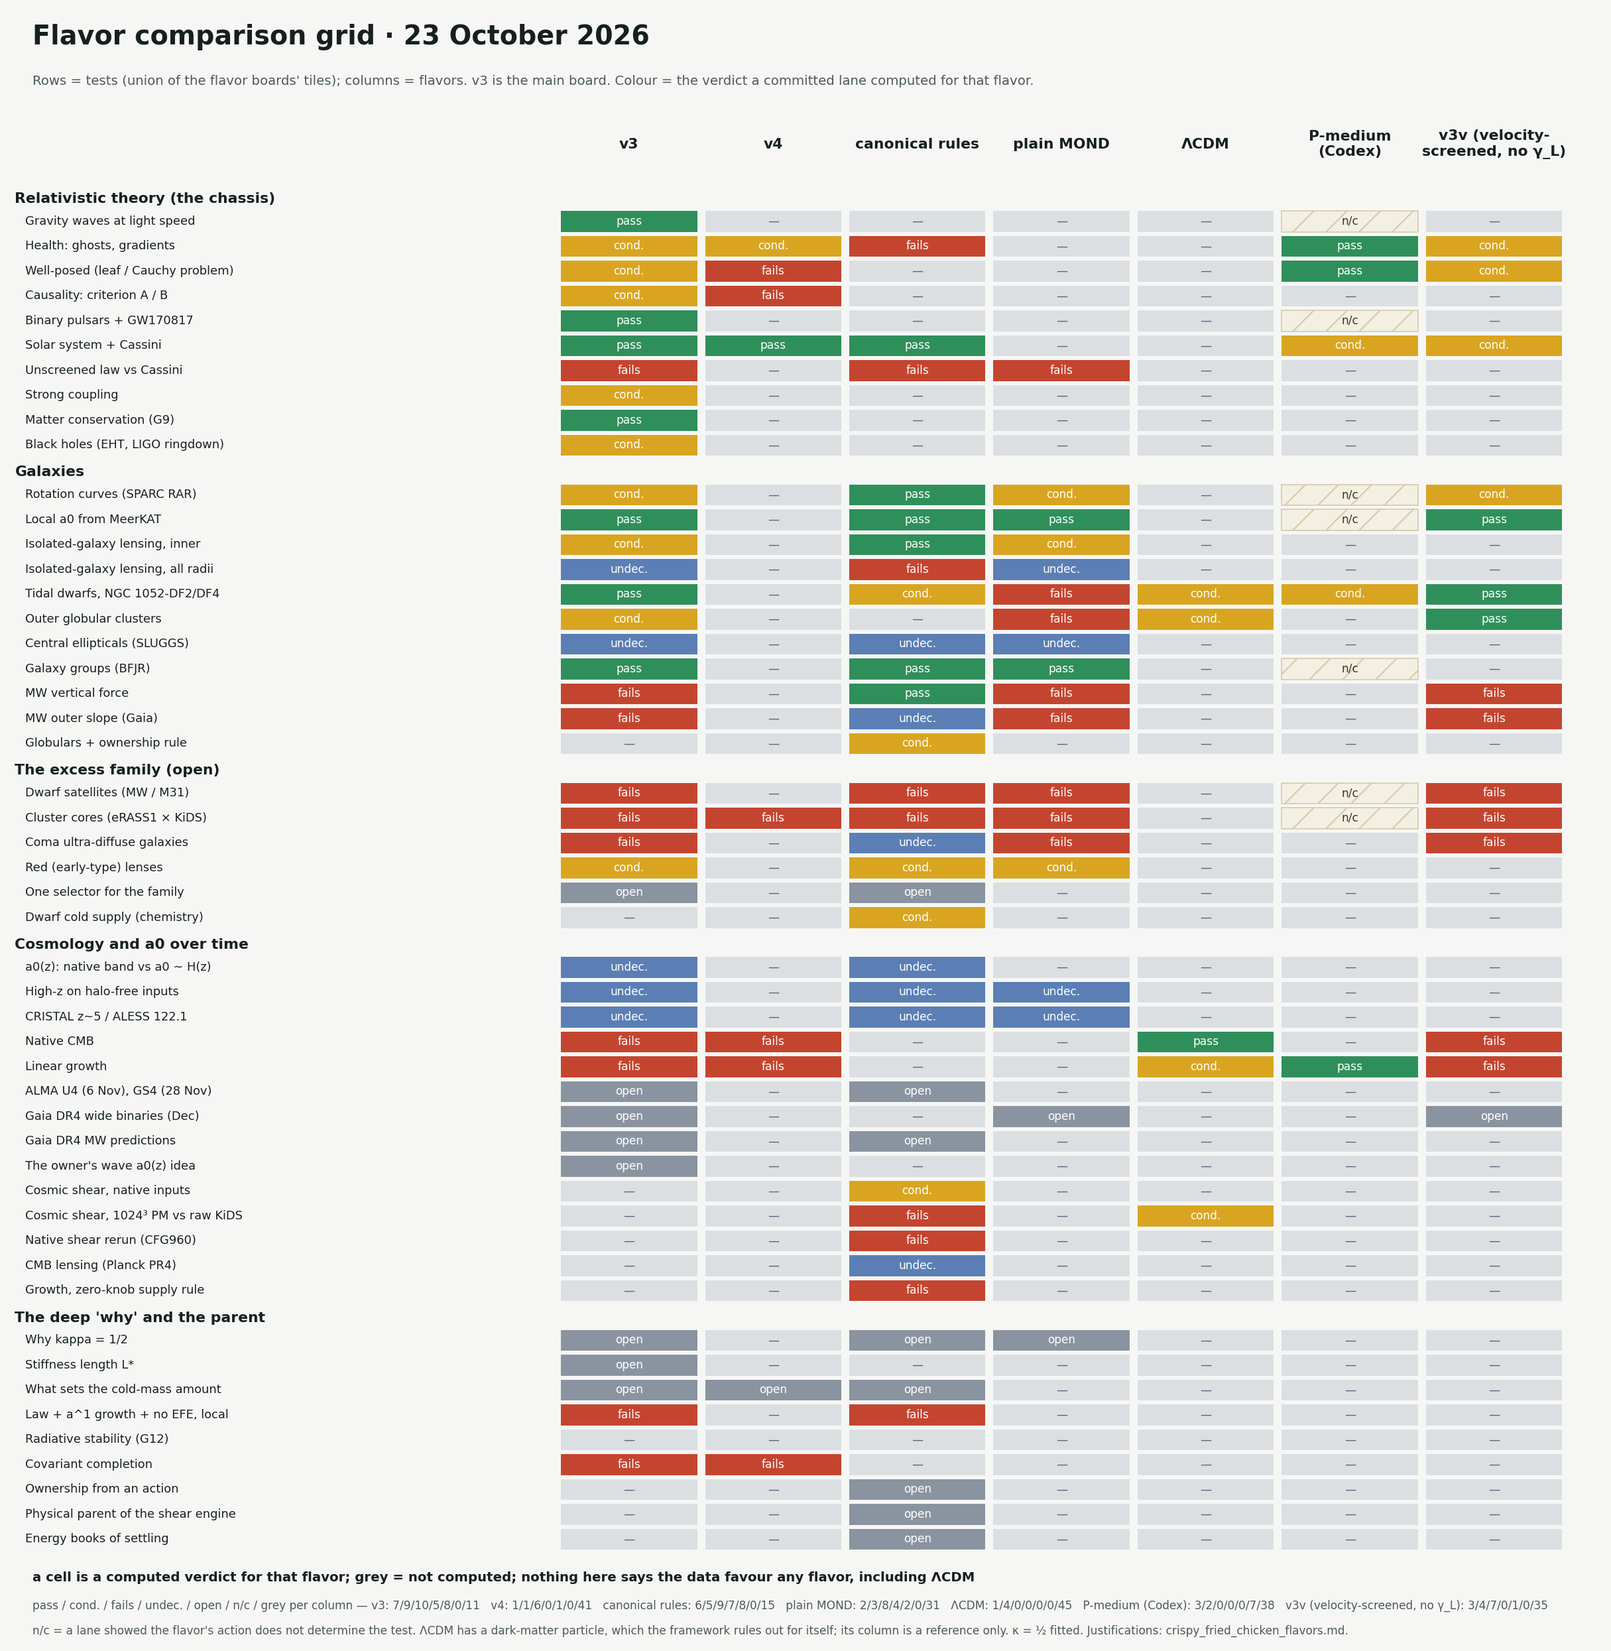
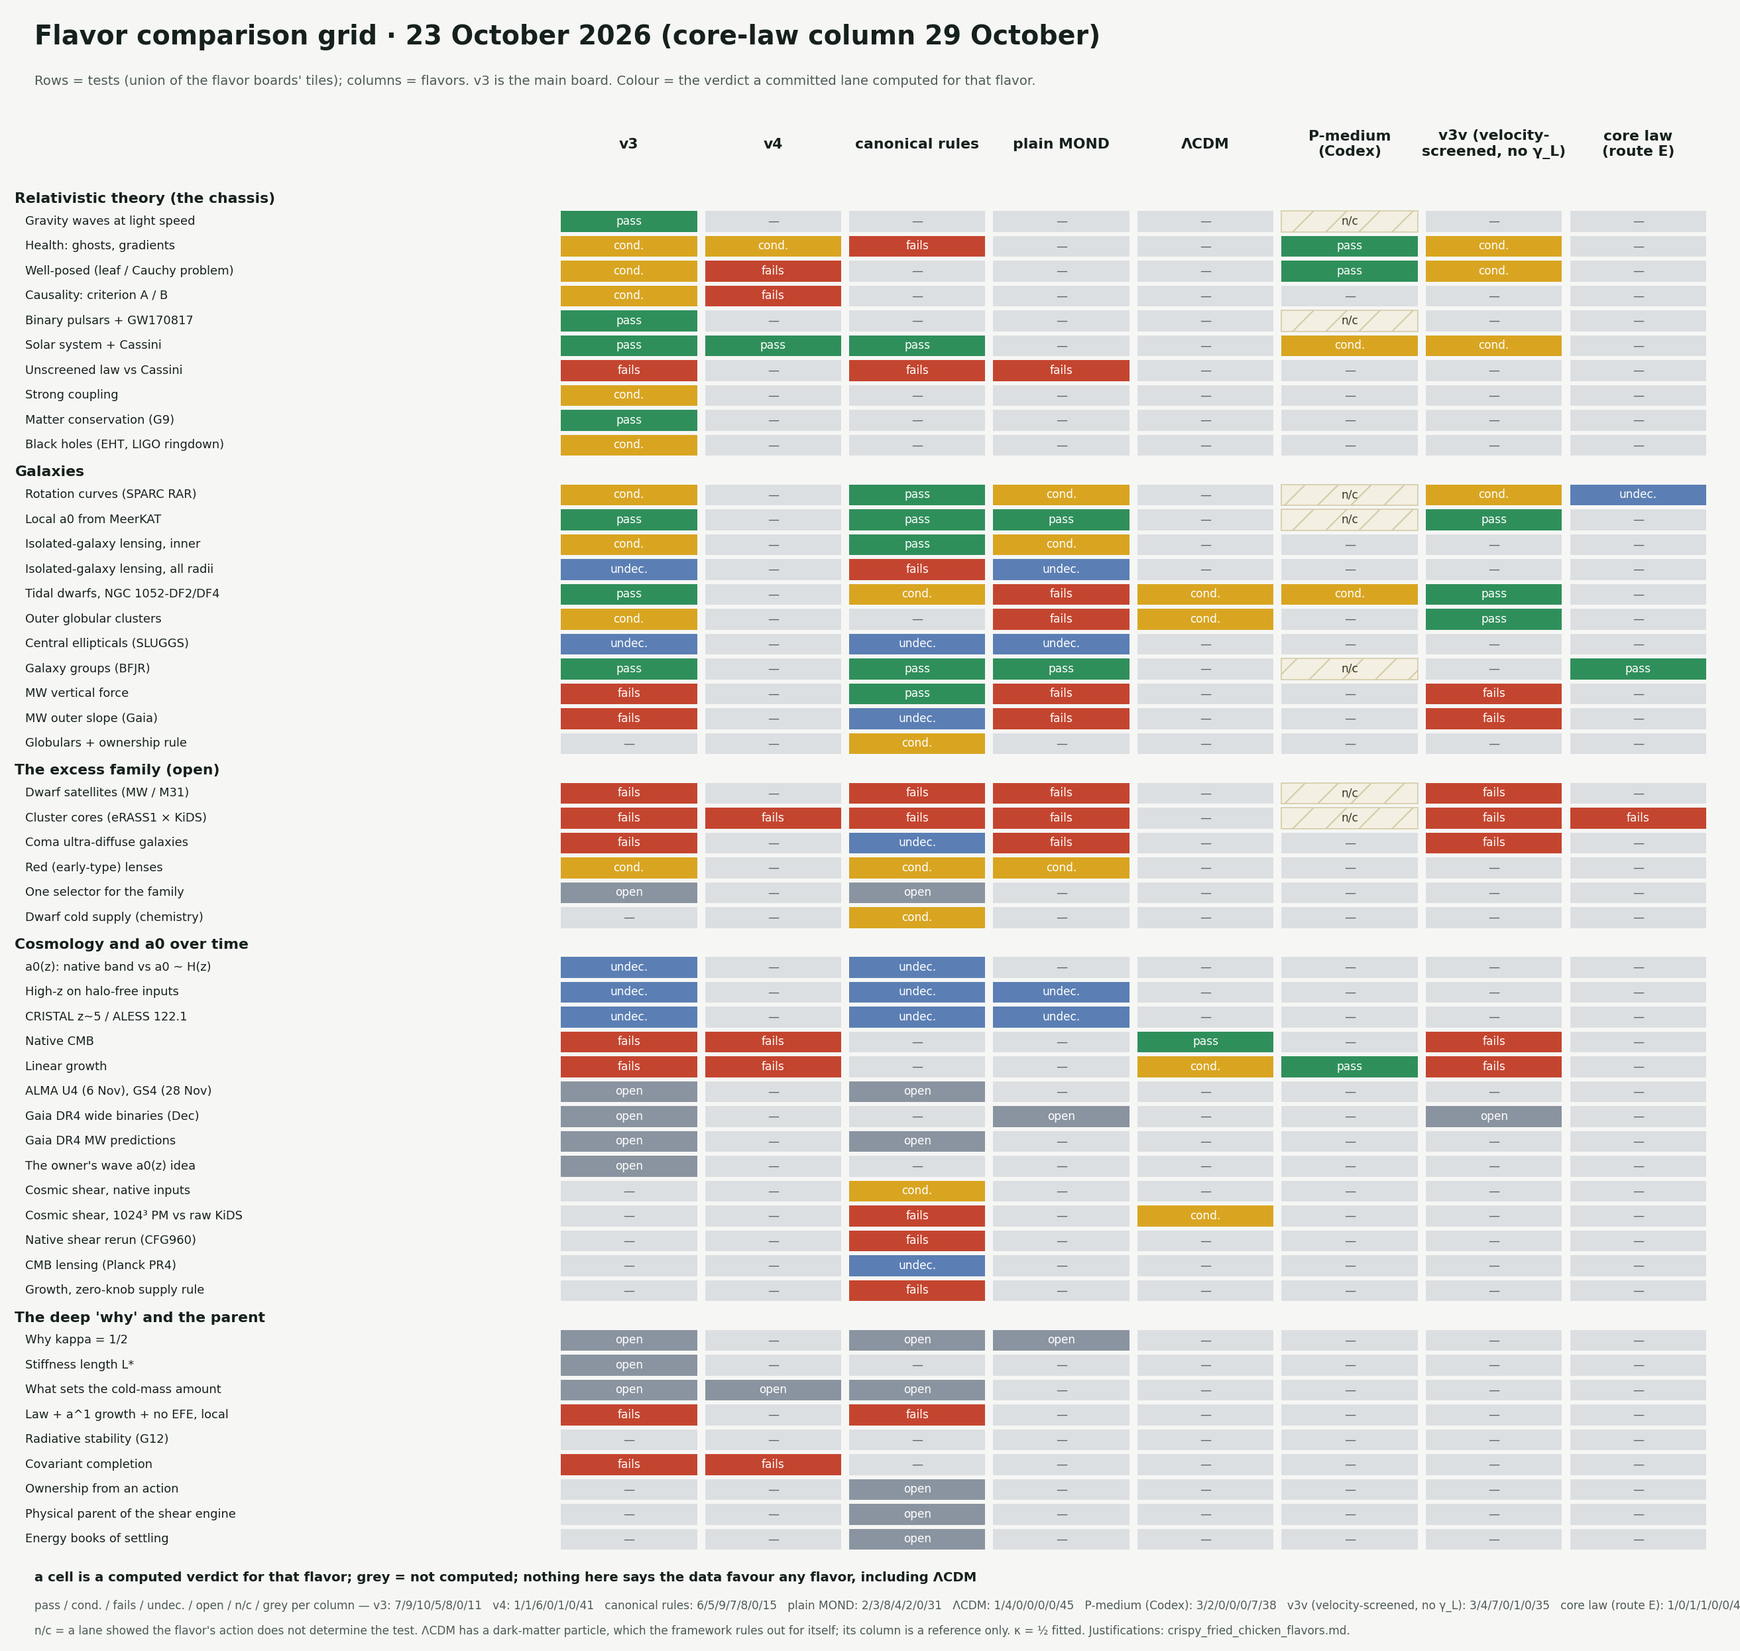
Boards + docs to 2026-10-29: eighth flavor 'core law (route E)' on the flavor boards (X70 groups PASS verified by rerun chain, SPARC not decidable (footings disagree), cluster keys FAIL with measured f* per X71; every cell lane-cited; selftest 31/31 caught, --mutate fails as required); grid widened 

diff --git a/explainers/make_flavor_boards.py b/explainers/make_flavor_boards.py
@@ -50,13 +50,17 @@ HERE = os.path.dirname(os.path.abspath(__file__))
 IMG = os.path.join(HERE, "img")
 OUT_BOARD = {"v4": "status_board_v4.png", "canonical": "status_board_canonical_rules.png",
              "plain_mond": "status_board_plain_mond.png", "lcdm": "status_board_lcdm.png",
-             "pmedium": "status_board_pmedium.png", "v3v": "status_board_v3v.png"}
+             "pmedium": "status_board_pmedium.png", "v3v": "status_board_v3v.png",
+             "coreE": "status_board_core_law.png"}
 OUT_GRID = "flavor_comparison_grid.png"
+BOARD_DATE = {"coreE": "29 October 2026"}   # flavors added later carry their own date
 
-FLAVORS = ["v3", "v4", "canonical", "plain_mond", "lcdm", "pmedium", "v3v"]
+FLAVORS = ["v3", "v4", "canonical", "plain_mond", "lcdm", "pmedium", "v3v", "coreE"]
 TITLE = {"v3": "v3", "v4": "v4", "canonical": "canonical rules", "plain_mond": "plain MOND", "lcdm": "ΛCDM",
-         "pmedium": "P-medium (Codex)", "v3v": "v3v (velocity-screened, no γ_L)"}
-GRID_TITLE = dict(TITLE, pmedium="P-medium\n(Codex)", v3v="v3v (velocity-\nscreened, no γ_L)")
+         "pmedium": "P-medium (Codex)", "v3v": "v3v (velocity-screened, no γ_L)",
+         "coreE": "core law (route E)"}
+GRID_TITLE = dict(TITLE, pmedium="P-medium\n(Codex)", v3v="v3v (velocity-\nscreened, no γ_L)",
+                  coreE="core law\n(route E)")
 RECIPES = {
     "v3": msb.RECIPE.split(": ", 1)[1],          # the main board's own recipe line, whatever it currently says
     "v4": "AeST (Skordis–Złośnik) with C1's capped free function (static limit = the law μ = x/(1+x)) plus the same "
@@ -72,6 +76,9 @@ RECIPES = {
                "stiffening scalar χ (Codex's reduced preferred-frame action); ℓ₀ = 0.44 kpc fitted to growth.",
     "v3v": "Literal Blanchet–Skordis Khronon (J_x, BS K(Q) dust) + covector P, with NO γ_L stiffness. Moving subsystems "
            "hold phantom only within 2GM_b/V² (velocity screening). κ fitted; no L★.",
+    "coreE": "Route E (owner's flagship, 10-25): Newtonian gravity on baryons + cold dark energy halos with the smooth core "
+             "ρ₀/(1+x²)^(3/2) at ρ₀r₀ = max(a₀/2πG, η Σ_coll), η re-derived for the shape (10.82 at c_f = 4, EXTERNAL); "
+             "fair share inside r_ta; measured stellar fractions; no law force. κ fitted.",
 }
 PSEUDO = {"newton"}   # the Newtonian / GR limit some lanes compute as a row; never a column of its own
 
@@ -195,6 +202,8 @@ L("H4", {"v3", "v3v"}, R + "H4_v3_saddle_stability/README.md:L11, L71, L81 (the 
 L("H5", {"v3", "v3v"}, R + "H5_v3s_lobe_growth/README.md:L3-L24 (static branch only in the khronon's rest frame)")
 L("Y1", {"pmedium"}, "rebuild_2026_10_22/Y1_pmedium_flavor/README.md:L1-L38 (Codex's XP/SE-20261023 reduced action)")
 L("Q6", {"v3", "lcdm"}, R + "Q6_v3_class/README.md:L21, L131 (ΛCDM refit; DUST = ΛCDM)")
+L("X70", {"coreE"}, R + "X70_smooth_core_shape/README.md:L1-L11 (smooth core, η re-derived, f★ = 0.20)")
+L("X71", {"coreE"}, R + "X71_smooth_core_measured_fstar/README.md:L1-L13 (X70 with measured stellar fractions)")
 
 # ---------------------------------------------------------------------------------------------------------------------
 # What each lane itself concluded: (lane, flavor computed, row) -> (colour, file:line where the lane states it).
@@ -205,6 +214,13 @@ def V(lane, comp, row, st, where):
     VERDICTS[(lane, comp, row)] = (st, where)
 
 
+# core law (route E): X70 (f★ 0.20) and X71 (measured f★); SPARC and groups do not use f★ (X71 README L13)
+V("X70", "coreE", "Rotation curves (SPARC RAR)", "UNDEC", R + "X70_smooth_core_shape/README.md:L9-L12 (canonical "
+  "passes; alt fails the line on Υ 0.47: footings disagree)")
+V("X70", "coreE", "Galaxy groups (BFJR)", "PASS", R + "X70_smooth_core_shape/README.md:L18 (Z +1.94 / +1.88 "
+  "CONSISTENT, both footings)")
+V("X71", "coreE", "Cluster cores (eRASS1 × KiDS)", "FAIL", R + "X71_smooth_core_measured_fstar/README.md:L7-L13 "
+  "(BREAKS: G-OUT-M3 UNDER, Z 2.25 / 2.33)")
 # v4
 V("H3", "v4", "Health: ghosts, gradients", "COND", TV3 + ":L26-L30")
 V("I1", "v4", "Well-posed (leaf / Cauchy problem)", "FAIL", R + "I1_gammaL_causality/README.md:L3-L14")
@@ -371,6 +387,9 @@ VERIFIED_GREEN_F = {
         "coordinator rerun identical; with U1 (54ee83e54e; coordinator rerun: main 15/16, A2 6/6)"),
     ("v3v", "Outer globular clusters"): ("O1", "ecbb964b0e", "coordinator rerun identical"),
     ("v3v", "Local a0 from MeerKAT"): ("P4", "6c0249a8bc", "coordinator rerun 2026-10-23: P4 identical except peak RSS"),
+    ("coreE", "Galaxy groups (BFJR)"): ("X70", "a9b3a43449",
+        "X71's f★ = 0.20 run reproduces X70 (cluster preds max |d| 0, 645c914b14) and X72's K1 reproduces X71's groups Z, "
+        "SPARC rms and cluster preds to 1e-9 (1a60d81204)"),
     ("lcdm", "Native CMB"): ("C2", "5e93769089",
         "the ΛCDM refit is reproduced independently by C7 K1 (README L161: 1003.48 vs C2's 1003.20) and Q6 "
         "(README L21: 1003.47)"),
@@ -623,6 +642,14 @@ CELLS = [
       "decides", ["O1"]),
     C("pmedium", 3, "Linear growth", "PASS",
       "σ₈ / dust limit 0.9991 (from a = 1e-3), 0.967 (1e-4); a WDM-like cutoff at k ~ 1–6 h/Mpc is flagged", ["Y1"]),
+    # ---------------- core law (route E, smooth core): X70 / X71 ----------------
+    C("coreE", 1, "Rotation curves (SPARC RAR)", "UNDEC",
+      "canonical rms 0.071, Υ 0.56: line passes; alt rms 0.072 but Υ 0.47 < 0.50: line fails (footings disagree)",
+      ["X70"]),
+    C("coreE", 1, "Galaxy groups (BFJR)", "PASS", "63 groups, Z +1.94 / +1.88 CONSISTENT (X43 Burkert: +2.05)", ["X70"]),
+    C("coreE", 2, "Cluster cores (326 eRASS1)", "FAIL",
+      "14 of 15 keys pass; heavy-cluster outskirts G-OUT-M3 UNDER, Z 2.25 / 2.33 with measured f★ (all 15 pass at the "
+      "assumed f★ 0.20); native c_f regrade X72 pending A4", ["X71", "X70"]),
 ]
 
 
@@ -746,7 +773,7 @@ def draw_board(f, cells, out):
     top_in, bot_in = 1.70, 1.25
     ax = fig.add_axes([0.012, bot_in / H, 0.976, 1 - (top_in + bot_in) / H])
     ax.set_xlim(0, ncol); ax.set_ylim(-0.25, nmax + 0.65); ax.axis("off")
-    fig.text(0.015, 1 - 0.50 / H, f"Flavor board · {TITLE[f]} · 23 October 2026", fontsize=24, fontweight="bold",
+    fig.text(0.015, 1 - 0.50 / H, f"Flavor board · {TITLE[f]} · {BOARD_DATE.get(f, '23 October 2026')}", fontsize=24, fontweight="bold",
              color="#16201d")
     msb._fit(fig, 0.015, 1 - 0.95 / H, f"Recipe ({TITLE[f]}): {RECIPES[f]}", 12.0, color="#16201d",
              fontstyle="italic")
@@ -801,13 +828,13 @@ def draw_grid(cells, out):
     rows, col_of = grid_rows(cells)
     got = {(c["flavor"], c["row"]): c["st"] for c in all_cells(cells)}
     n = len(rows) + len(COLUMNS)                      # rows + one header line per column group
-    rh, W = 0.25, 16.2
+    rh, W = 0.25, 5.6 + 1.45 * len(FLAVORS) + 0.3     # wide enough for every flavor column
     H = 1.85 + rh * n + 1.0
     fig = plt.figure(figsize=(W, H), dpi=150)
     fig.patch.set_facecolor("#f6f7f5")
     ax = fig.add_axes([0.0, 1.0 / H, 1.0, (H - 1.85 - 1.0) / H])
     ax.set_xlim(0, W); ax.set_ylim(n, 0); ax.axis("off")
-    fig.text(0.02, 1 - 0.45 / H, "Flavor comparison grid · 23 October 2026", fontsize=19, fontweight="bold",
+    fig.text(0.02, 1 - 0.45 / H, "Flavor comparison grid · 23 October 2026 (core-law column 29 October)", fontsize=19, fontweight="bold",
              color="#16201d")
     fig.text(0.02, 1 - 0.85 / H, "Rows = tests (union of the flavor boards' tiles); columns = flavors. v3 is the main "
              "board. Colour = the verdict a committed lane computed for that flavor.", fontsize=9.5, color="#4d5a56")

diff --git a/explainers/crispy_fried_chicken_flavors.md b/explainers/crispy_fried_chicken_flavors.md
@@ -4,7 +4,7 @@
 
 ![Flavor comparison grid](img/flavor_comparison_grid.png)
 
-Boards: [v4](img/status_board_v4.png) · [canonical rules](img/status_board_canonical_rules.png) · [plain MOND](img/status_board_plain_mond.png) · [ΛCDM](img/status_board_lcdm.png) · [P-medium (Codex)](img/status_board_pmedium.png) · [v3v](img/status_board_v3v.png). The v3 board is [`img/status_board.png`](img/status_board.png). All are drawn by [`make_flavor_boards.py`](make_flavor_boards.py), which imports v3's tiles from [`make_status_board.py`](make_status_board.py) and leaves that board and its image untouched.
+Boards: [v4](img/status_board_v4.png) · [canonical rules](img/status_board_canonical_rules.png) · [plain MOND](img/status_board_plain_mond.png) · [ΛCDM](img/status_board_lcdm.png) · [P-medium (Codex)](img/status_board_pmedium.png) · [v3v](img/status_board_v3v.png) · [core law (route E)](img/status_board_core_law.png). The v3 board is [`img/status_board.png`](img/status_board.png). All are drawn by [`make_flavor_boards.py`](make_flavor_boards.py), which imports v3's tiles from [`make_status_board.py`](make_status_board.py) and leaves that board and its image untouched.
 
 ## The flavors (one-line recipes)
 
@@ -16,6 +16,7 @@ Boards: [v4](img/status_board_v4.png) · [canonical rules](img/status_board_cano
 | plain MOND | AQUAL with μ = x/(1+x) on baryons, external-field effect included; no screening, no dust, no cosmology; κ = ½ fitted. |
 | ΛCDM | GR + Λ + cold dark matter particles (6 fitted cosmological parameters; halos from simulations). It has a dark-matter particle, which this framework's owner rules out for the framework itself; a reference only. |
 | P-medium (Codex) | Newtonian Poisson on baryons + a cold particle medium that also feels a saturating polarization P and a stiffening scalar χ (Codex's reduced preferred-frame action); ℓ₀ = 0.44 kpc fitted to growth. |
+| core law (route E) | Route E (the owner's 10-25 flagship): Newtonian gravity on baryons + cold dark energy halos with the smooth core ρ₀/(1+x²)^(3/2) at ρ₀r₀ = max(a₀/2πG, η Σ_coll), η re-derived for the shape (10.82 at c_f = 4, EXTERNAL); fair share inside r_ta; measured stellar fractions; no law force. κ fitted. |
 | v3v (velocity-screened, no γ_L) | Literal Blanchet–Skordis Khronon (J_x, BS K(Q) dust) + covector P, with NO γ_L stiffness. Moving subsystems hold phantom only within 2GM_b/V² (velocity screening). κ fitted; no L★. |
 
 ΛCDM is a reference column only. It has a dark-matter particle, which this framework's owner rules out for the framework itself.
@@ -44,6 +45,7 @@ The grid has 50 rows.
 | ΛCDM | 1 | 4 | 0 | 0 | 0 | 0 | 45 |
 | P-medium (Codex) | 3 | 2 | 0 | 0 | 0 | 7 | 38 |
 | v3v (velocity-screened, no γ_L) | 3 | 4 | 7 | 0 | 1 | 0 | 35 |
+| core law (route E) | 1 | 0 | 1 | 1 | 0 | 0 | 47 |
 
 ## v4
 
@@ -241,6 +243,29 @@ The grid has 50 rows.
 - **P-medium (Codex), everything not on its board.** Lane Y1 (results 55aed1b71c, reproduced by the coordinator) scored ten board tests. The rest are grey. Y1's n/c rows are: GW speed and binary pulsars (no tensor sector); SPARC RAR (no galaxy law; the history-free branch fails at rms 0.24 dex); MeerKAT and groups (the same argument, not recomputed); satellites (core masses free); and cluster cores (no static prediction).
 - **v3v (velocity-screened, no γ_L).** Its own cells come from O1 §3 (ecbb964b0e) with H4 and H5. A reused v3 verdict needs a cited line showing γ_L does not enter (the guard requires it). Grey: groups (O1 L112: members DEPEND on whether the group's khronon is held); the strong-field rows (P3's regular holes and strong coupling depend on L★; only the static exterior, P3 L25, is γ_L-free); lensing, SLUGGS, high-z and the rest, which were never shown to be γ_L-free. BBN (Q6, γ_L-free per Q6 L172) has no grid row, because the main board refused that tile. Outer globulars take O1's own class (PASS, PROXY speeds); Cassini is drawn conditional because O1 calls it an estimate.
 - **Canonical rules, CFG960.** It is counted under the canonical rules, as the coordinator classed it; N0 labels it the SCT-M engine (domains, conversion of cold energy into phantom bodies, census baryons; AUDIT L52-L53, L116).
+
+## core law (route E) (added 29 October 2026)
+
+**Recipe:** Route E, the owner's 25 October flagship: Newtonian gravity on baryons plus cold dark energy halos.
+- **Halo shape:** the smooth core ρ₀/(1+x²)^(3/2).
+- **Core rule:** ρ₀r₀ = max(a₀/2πG, η Σ_coll), with η re-derived for the shape (10.82 at c_f = 4, EXTERNAL).
+- **Normalization:** fair share inside r_ta.
+- **Stars:** measured stellar fractions.
+- **No law force.** κ fitted.
+
+![core law board](img/status_board_core_law.png)
+
+Only three rows are computed for this flavor; every other row is grey.
+
+| row | colour | lane | why |
+|---|---|---|---|
+| Rotation curves (SPARC RAR) | not decidable | X70 (README L9–L12) | canonical passes the line (rms 0.071, Υ 0.56); alt has rms 0.072 but Υ 0.47 < 0.50 — the footings disagree. SPARC does not use f★. |
+| Galaxy groups (BFJR) | pass | X70 (README L18) | 63 groups, Z +1.94 / +1.88 CONSISTENT. Green verified: X71's f★ = 0.20 run reproduces X70 (645c914b14), and X72's K1 reproduces X71's groups Z to 1e-9 (1a60d81204). |
+| Cluster cores (eRASS1 × KiDS) | fails | X71 (README L7–L13) | with measured f★, 14 of 15 keys pass. G-OUT-M3 (heavy-cluster outskirts) is UNDER at Z 2.25 / 2.33. All 15 pass at the assumed f★ = 0.20 (X70). |
+
+- **Pending:** X72 (frozen ba337e221c), the regrade with native c_f from the X48 A4 zooms.
+- **Closed routes for this flavor's floor:** X47, X65–X68 and the phantom ceiling, in `rebuild_2026_10_22/X65_X67_POSTMORTEM.md`.
+- **Not a main board.** The main board stays v3s. Moving the main board to route E would mean recomputing every tile for it (owner rule 10-23), and that is the owner's call.
 
 ---
 

diff --git a/README.md b/README.md
@@ -2,6 +2,17 @@
 
 **One claim: the galactic acceleration scale is set by the dark-energy density.**
 
+**Checkpoint 2026-10-29 (route E, the owner's 25 October flagship: the a₀ law plus the cold dark energy core law).** This is not a new verdict on v3s, which stays frozen.
+- **The core rule** is ρ₀r₀ = max(a₀/2πG, η Σ_coll). It is empirical: every mechanism tried for the floor is closed (X47, X65–X68, the phantom-halo ceiling, pressure floors, correlated matter beyond r_ta; see [`rebuild_2026_10_22/X65_X67_POSTMORTEM.md`](rebuild_2026_10_22/X65_X67_POSTMORTEM.md)). SPARC prefers the hard floor (X69_soft_floor_sparc: softening it worsens the low-acceleration half by 43–55 %).
+- **Best halo shape.** The smooth core ρ₀/(1+x²)^(3/2), with η re-derived to 10.82 (X70_smooth_core_shape):
+  - canonical footing: passes SPARC, all 15 cluster keys and the 63 groups at the assumed f★ = 0.20;
+  - alt footing: fails the SPARC Υ line (0.47).
+- **With measured stellar fractions** (X71), one key fails: the heavy-cluster outskirts, G-OUT-M3 Z 2.25–2.33.
+- **Pending:** the native-c_f regrade X72 (frozen ba337e221c, pre-built) waits on the X48 A4 zooms. An external c_f(M) slope is pre-registered (23095bf23a).
+- **Draft:** PAPER65 (not deposited; audit 24/24).
+- **Board:** the new [core-law flavor board](explainers/crispy_fried_chicken_flavors.md#core-law-route-e-added-29-october-2026).
+- κ = ½ fitted, c_f external; the theory is not closed.
+
 **Verdict (24 October 2026):** [`covariant_push_2026_10_22/V3S_FINAL_VERDICT_2026-10-24.md`](covariant_push_2026_10_22/V3S_FINAL_VERDICT_2026-10-24.md) is the final verdict on the current theory, v3s, on one page. It covers the frozen action, what passes, what fails with its one mechanism, the status of the caustic completion, and the dated data still to come. As a galaxy-scale law it passes; as a theory of gravity and cosmology it fails at clusters, growth/CMB, the radiation era, hosted dwarfs and the Milky Way disc.
 
 **Start here (23 October 2026):** [`covariant_push_2026_10_22/V3_FULL_PICTURE.md`](covariant_push_2026_10_22/V3_FULL_PICTURE.md) is the whole current theory on one page: the action, its field equations, every pass and fail with its mechanism, and which results are certified in Lean (`fable_independent_2026/lean_2026/V3_PICTURE_2026_10_23.lean`, 23 theorems, 0 sorry). The map of every explanation tried is [`rebuild_2026_10_22/X0_explanation_map/MAP.md`](rebuild_2026_10_22/X0_explanation_map/MAP.md).

diff --git a/FRIED_CHICKEN.md b/FRIED_CHICKEN.md
@@ -1,5 +1,15 @@
 # FRIED CHICKEN — the requirements
 
+> **Status note (2026-10-29).** The gates below are the covariant-completion requirements; they are unchanged.
+> - **The owner's current flagship is route E** (25 October): the a₀ law plus the empirical cold dark energy core law
+>   ρ₀r₀ = max(a₀/2πG, η Σ_coll). It is not a covariant completion and does not claim these gates.
+> - **Where route E stands:** the smooth-core halo (X70) passes SPARC, the cluster keys and the groups on the canonical
+>   footing at the assumed f★. With measured f★ (X71), one cluster key fails, at about 2.3σ. The floor itself has no
+>   derived mechanism: every local route is closed (`rebuild_2026_10_22/X65_X67_POSTMORTEM.md`).
+> - **Next:** the X72 native-c_f regrade after the X48 A4 zooms.
+> - **Board:** core-law flavor board (`explainers/crispy_fried_chicken_flavors.md`).
+> - κ = ½ fitted; not theory closed.
+
 > ## ⚠ WHAT THIS FRAMEWORK IS, LABELLED HONESTLY
 >
 > In the frame-flip configuration that clears nine of these ten rows, **ρ_halo is an
